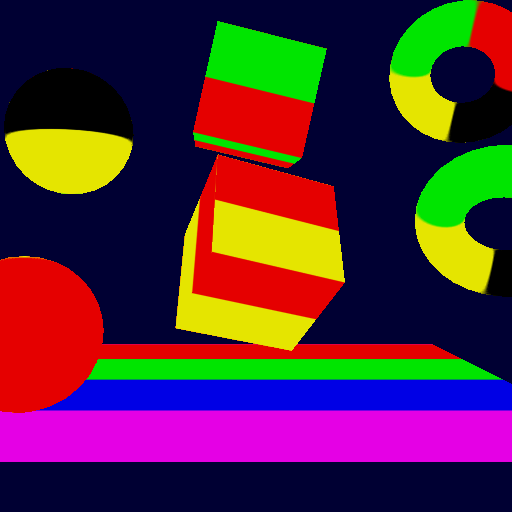
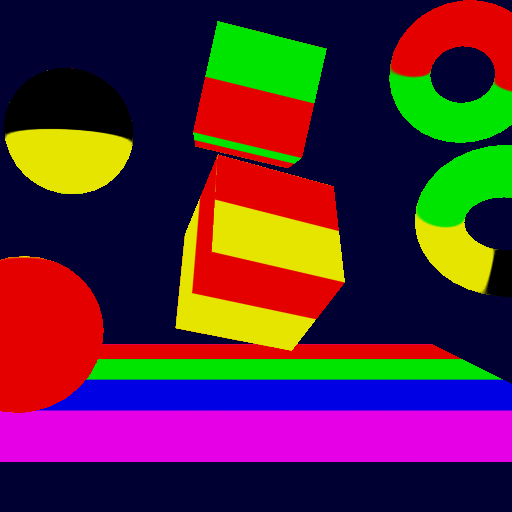
hotfix!!!

Changed region(s): [[0.75, 0.0, 1.0, 0.2812]]

diff --git a/main/tests4.cpp b/main/tests4.cpp
@@ -852,7 +852,7 @@ bool test27_many_textures_big_data_from_mem()
                                                            
   HRMeshRef planeRef = HRMeshFromSimpleMesh(L"my_plane",   CreatePlane(2.0f), simplerandom::rand(rgen) % 20);
   HRMeshRef sphRef   = HRMeshFromSimpleMesh(L"my_sphere",  CreateSphere(0.5f, 32), simplerandom::rand(rgen)%20);
-  HRMeshRef torRef   = HRMeshFromSimpleMesh(L"my_torus",   CreateTorus(0.2f, 0.5f, 32, 32), rand()%20);
+  HRMeshRef torRef   = HRMeshFromSimpleMesh(L"my_torus",   CreateTorus(0.2f, 0.5f, 32, 32), simplerandom::rand(rgen)%20);
 
   HRMeshRef cubeRef2 = HRMeshFromSimpleMesh(L"my_cube2",   CreateCube(0.5f), 8);
   HRMeshRef sphRef2  = HRMeshFromSimpleMesh(L"my_sphere2", CreateSphere(0.5f, 32), 15);
@@ -1038,7 +1038,7 @@ bool test29_many_textures_and_meshes()
   
   HRMeshRef planeRef = HRMeshFromSimpleMesh(L"my_plane", CreatePlane(2.0f), simplerandom::rand(rgen) % 20);
 
-  std::vector<HRMeshRef> meshes = CreateRandomMeshesArray(1000);
+  std::vector<HRMeshRef> meshes = CreateRandomMeshesArray(1000, rgen);
   
   // HRMeshRef cubeRef  = HRMeshFromSimpleMesh(L"my_cube",  CreateCube(0.5f), rand() % 20);
   // 
@@ -1163,15 +1163,16 @@ bool test29_many_textures_and_meshes()
   {
     hrMeshInstance(scnRef, planeRef, &matrixT2[0][0]);
 
-    hrMeshInstance(scnRef, meshes[rand() % (meshes.size() / 2)], &matrixT[0][0]);
-    hrMeshInstance(scnRef, meshes[rand() % (meshes.size() / 2)], &matrixT3[0][0]);
-    hrMeshInstance(scnRef, meshes[rand() % (meshes.size() / 2)], &matrixT4[0][0]);
+    hrMeshInstance(scnRef, meshes[simplerandom::rand(rgen) % (meshes.size() / 2)], &matrixT[0][0]);
+    hrMeshInstance(scnRef, meshes[simplerandom::rand(rgen) % (meshes.size() / 2)], &matrixT3[0][0]);
+    hrMeshInstance(scnRef, meshes[simplerandom::rand(rgen) % (meshes.size() / 2)], &matrixT4[0][0]);
 
-    hrMeshInstance(scnRef, meshes[rand() % (meshes.size() / 2)], &matrixT5[0][0]);
-    hrMeshInstance(scnRef, meshes[rand() % (meshes.size() / 2)], &matrixT6[0][0]);
-    hrMeshInstance(scnRef, meshes[rand() % (meshes.size() / 2)], &matrixT7[0][0]);
+    hrMeshInstance(scnRef, meshes[simplerandom::rand(rgen) % (meshes.size() / 2)], &matrixT5[0][0]);
+    hrMeshInstance(scnRef, meshes[simplerandom::rand(rgen) % (meshes.size() / 2)], &matrixT6[0][0]);
+    hrMeshInstance(scnRef, meshes[simplerandom::rand(rgen) % (meshes.size() / 2)], &matrixT7[0][0]);
   }
   hrSceneClose(scnRef);
+
 
   hrFlush(scnRef, settingsRef);
   hrRenderSaveFrameBufferLDR(settingsRef, L"tests_images/test_29/z_out.png");
@@ -1228,16 +1229,7 @@ bool test30_many_textures_and_meshes()
   //
   HRMeshRef planeRef = HRMeshFromSimpleMesh(L"my_plane", CreatePlane(2.0f), simplerandom::rand(rgen) % 20);
 
-  std::vector<HRMeshRef> meshes = CreateRandomMeshesArray(600);
-
-  // HRMeshRef cubeRef  = HRMeshFromSimpleMesh(L"my_cube",  CreateCube(0.5f), rand() % 20);
-  // 
-  // HRMeshRef sphRef   = HRMeshFromSimpleMesh(L"my_sphere", CreateSphere(0.5f, 32), rand() % 20);
-  // HRMeshRef torRef   = HRMeshFromSimpleMesh(L"my_torus",  CreateTorus(0.2f, 0.5f, 32, 32), rand() % 20);
-  // 
-  // HRMeshRef cubeRef2 = HRMeshFromSimpleMesh(L"my_cube2",   CreateCube(0.5f), 8);
-  // HRMeshRef sphRef2  = HRMeshFromSimpleMesh(L"my_sphere2", CreateSphere(0.5f, 32), 15);
-  // HRMeshRef torRef2  = HRMeshFromSimpleMesh(L"my_torus2",  CreateTorus(0.2f, 0.5f, 32, 32), rand() % 20);
+  std::vector<HRMeshRef> meshes = CreateRandomMeshesArray(600, rgen);
 
   // camera
   //

diff --git a/main/utils.cpp b/main/utils.cpp
@@ -352,13 +352,13 @@ namespace TEST_UTILS
     HydraRender::SaveImageToFile(a_fileName, w, h, (unsigned int*)&imageData[0]);
   }
 
-  std::vector<HRMeshRef> CreateRandomMeshesArray(int a_size)
+  std::vector<HRMeshRef> CreateRandomMeshesArray(int a_size, simplerandom::RandomGen& rgen)
   {
     std::vector<HRMeshRef> meshes(a_size);
 
     for (size_t i = 0; i < meshes.size(); i++)
     {
-      int choice = rand() % 3;
+      int choice = simplerandom::rand(rgen) % 3;
 
       if (choice == 0)
         meshes[i] = HRMeshFromSimpleMesh(L"my_cube", CreateCube(0.5f), rand() % 50);

diff --git a/hydra_api/HRTextureCommon.cpp b/hydra_api/HRTextureCommon.cpp
@@ -129,7 +129,7 @@ std::shared_ptr<IHRTextureNode> HydraFactoryCommon::CreateTexture2DFromMemory(HR
 {
   const size_t textureSizeInBytes     = size_t(width)*size_t(height)*size_t(bpp);
   const size_t totalByteSizeOfTexture = textureSizeInBytes + size_t(2 * sizeof(unsigned int));
-
+  
   const size_t chunkId = g_objManager.scnData.m_vbCache.AllocChunk(totalByteSizeOfTexture, pSysObj->id);
   auto& chunk          = g_objManager.scnData.m_vbCache.chunk_at(chunkId);
   chunk.type           = (bpp <= 4) ? CHUNK_TYPE_IMAGE4UB : CHUNK_TYPE_IMAGE4F;

diff --git a/main/tests.h b/main/tests.h
@@ -54,7 +54,7 @@ namespace TEST_UTILS
   void procTexCheckerLDR(unsigned char* a_buffer, int w, int h, void* a_repeat);
 
   //geometry
-  std::vector<HRMeshRef> CreateRandomMeshesArray(int a_size);
+  std::vector<HRMeshRef> CreateRandomMeshesArray(int a_size, simplerandom::RandomGen& rgen);
   HRMeshRef HRMeshFromSimpleMesh(const wchar_t* a_name, const SimpleMesh& a_mesh, int a_matId);
 
   //render

diff --git a/hydra_api/VirtualBuffer.cpp b/hydra_api/VirtualBuffer.cpp
@@ -375,6 +375,8 @@ void VirtualBuffer::RunCollector(int a_divisor)
 
   if (m_pTempBuffer->size() > maxAccumulatedMemory) // free unneccesary memory of tempBuffer it it was allocated previously too much
     (*m_pTempBuffer) = std::vector<int>();
+
+  m_currTop = top;
 }
 
 void VirtualBuffer::FlushToDisc()

diff --git a/hydra_api/HydraAPI.h b/hydra_api/HydraAPI.h
@@ -1032,7 +1032,7 @@ HAPI void hrFlush(HRSceneInstRef a_pScn = HRSceneInstRef(),
 
 typedef int32_t HR_IDType;
 
-constexpr int64_t VIRTUAL_BUFFER_SIZE = int64_t(4096)*int64_t(1024 * 1024);
+constexpr int64_t VIRTUAL_BUFFER_SIZE = int64_t(2048)*int64_t(1024 * 1024);
 
 
 
